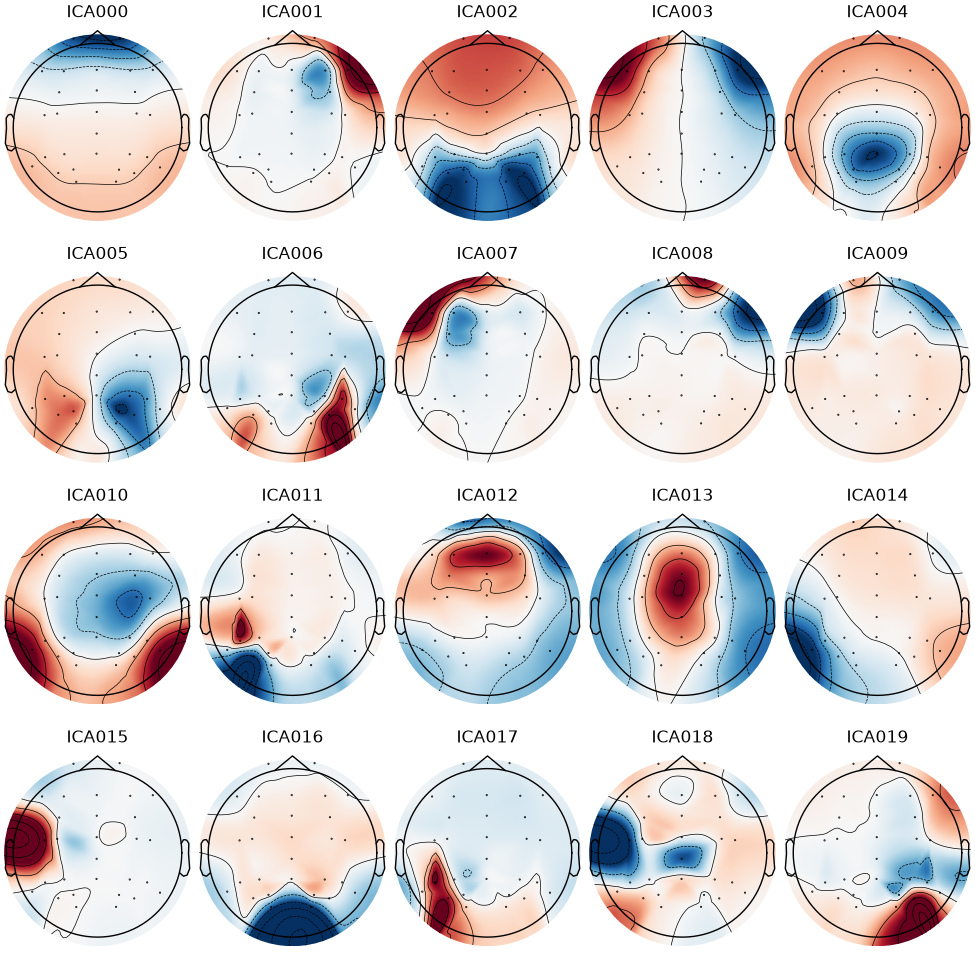
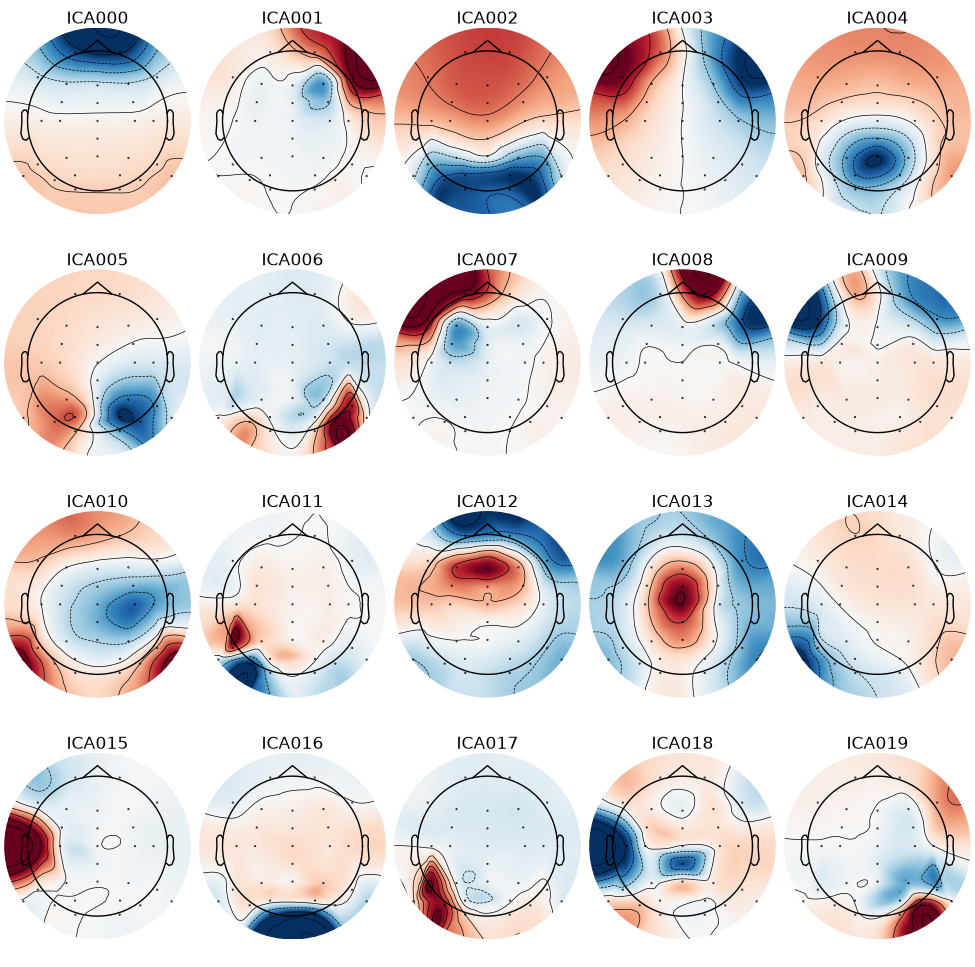
Step 2: use the dataset's electrodes.tsv positions instead of a template

Changed region(s): [[0.0, 0.0, 1.0, 0.9928], [0.4308, 0.8066, 0.4615, 0.8376]]

diff --git a/step2_preprocess.py b/step2_preprocess.py
@@ -15,12 +15,17 @@ matplotlib.use('Agg')
 import matplotlib.pyplot as plt
 import mne
 import numpy as np
+import pandas as pd
 
 ROOT = Path(__file__).resolve().parent
 DATA = ROOT / 'data'
 FIGS = ROOT / 'figs'
 RAW_FILE = (DATA / 'step1_erpcore_N170' / 'erpcore' / 'N170'
             / 'sub-001' / 'eeg' / 'sub-001_task-N170_eeg.set')
+ELEC_FILE = RAW_FILE.with_name('sub-001_task-N170_electrodes.tsv')
+# Head outline for topomaps: the dataset's electrodes sit on an 85 mm sphere
+# centred at the origin, so electrodes at z = 0 (FP1/FP2, O1/O2) fall on it
+SPHERE = (0, 0, 0, 0.085)
 
 EOG_CHANNELS = ['HEOG_left', 'HEOG_right', 'VEOG_lower']
 BAD_CHANNELS = ['Oz']  # intermittent jumps up to ~1700 µV, low-frequency only
@@ -50,11 +55,15 @@ raw = mne.set_bipolar_reference(
 )
 raw.set_channel_types({'HEOG': 'eog', 'VEOG': 'eog'})
 
-# The .set file has no electrode positions; use the standard 10-20 template
-# (needed for ICA topomaps and for interpolating bad channels). FP1/FP2 are
-# spelled Fp1/Fp2 in the template, hence match_case=False.
-raw.set_montage(mne.channels.make_standard_montage('colin27_1020'),
-                match_case=False)
+# The .set file has no electrode positions; take them from the dataset's own
+# electrodes.tsv (needed for ICA topomaps and for interpolating bad channels).
+# These are idealised positions on an 85 mm sphere, not digitised per subject.
+# coordsystem.json says ARS, but left electrodes (FP1, F7, ...) have +y, so
+# the axes are x = nose, y = left ear, z = up. MNE's head frame is x = right,
+# y = nose, z = up, in metres.
+elec = pd.read_csv(ELEC_FILE, sep='\t', na_values='n/a').dropna().set_index('name')
+ch_pos = {name: np.array([-r.y, r.x, r.z]) / 1000 for name, r in elec.iterrows()}
+raw.set_montage(mne.channels.make_dig_montage(ch_pos=ch_pos, coord_frame='head'))
 
 # Bad channels stay in the data but are left out of the average reference
 # and, later, ICA; they get interpolated from their neighbours afterwards
@@ -113,13 +122,14 @@ for ch, sc in zip(['HEOG', 'VEOG'], eog_scores):
     print(f'  {ch} top |r|: ' + ', '.join(f'ICA{i:03d} {sc[i]:+.2f}' for i in top))
 
 # Figures for checking the candidates
-for i, fig in enumerate(np.atleast_1d(ica.plot_components(show=False))):
+for i, fig in enumerate(np.atleast_1d(ica.plot_components(sphere=SPHERE,
+                                                          show=False))):
     fig.savefig(FIGS / f'step2_ica_components_{i + 1}.png', dpi=100)
 fig = ica.plot_scores(eog_scores, exclude=eog_idx, labels=['HEOG', 'VEOG'],
                       show=False)
 fig.savefig(FIGS / 'step2_ica_eog_scores.png', dpi=100)
-for comp, fig in zip(eog_idx, ica.plot_properties(raw_ica, picks=eog_idx,
-                                                  show=False)):
+for comp, fig in zip(eog_idx, ica.plot_properties(
+        raw_ica, picks=eog_idx, topomap_args=dict(sphere=SPHERE), show=False)):
     fig.savefig(FIGS / f'step2_ica_props_ICA{comp:03d}.png', dpi=100)
 
 # Candidate time courses next to the bipolar EOG, 30 s window

diff --git a/notes.md b/notes.md
@@ -57,3 +57,11 @@
 - find_bads_eog 候选：ICA000（VEOG r=+0.95，前额对称地形图，时间曲线和眨眼一一对应）→ 眨眼
   ICA003（HEOG r=+0.80，左前正右前负，最大 3 次 HEOG 跳变时 ICA003 同步阶跃，step2_check_ica003.py）→ 水平眼动
 - 其余成分和 HEOG/VEOG 的 |r| 都 < 0.1
+
+### 电极位置改用数据集自带的 electrodes.tsv（替换上面的 colin27_1020）
+- electrodes.tsv：30 个头皮电极落在半径 85 mm 的理想球面上（Cz = 0, 0, 85），是模板位置，不是逐个被试测量的；3 个眼电电极没有坐标
+- coordsystem.json 写的是 ARS，但左侧电极 y 为正，实际轴向是 x 朝鼻、y 朝左耳、z 朝上；转成 MNE head 坐标（x 朝右、y 朝鼻、z 朝上，单位米）：(x, y, z) → (−y, x, z) / 1000
+- 检查：FP1 (−26.1, 80.8, −4.0) mm 在左前，F8 在右，Oz (0, −85, −1.8) 在正后
+- 和 colin27_1020 比：方向中位差 5.8°，最大 10.7°（P9/P10）
+- 地形图头圈用 sphere = (0, 0, 0, 0.085)
+- ICA 不受影响：28 个成分，候选仍是 ICA000（VEOG +0.95）、ICA003（HEOG +0.80）；只重画了地形图
